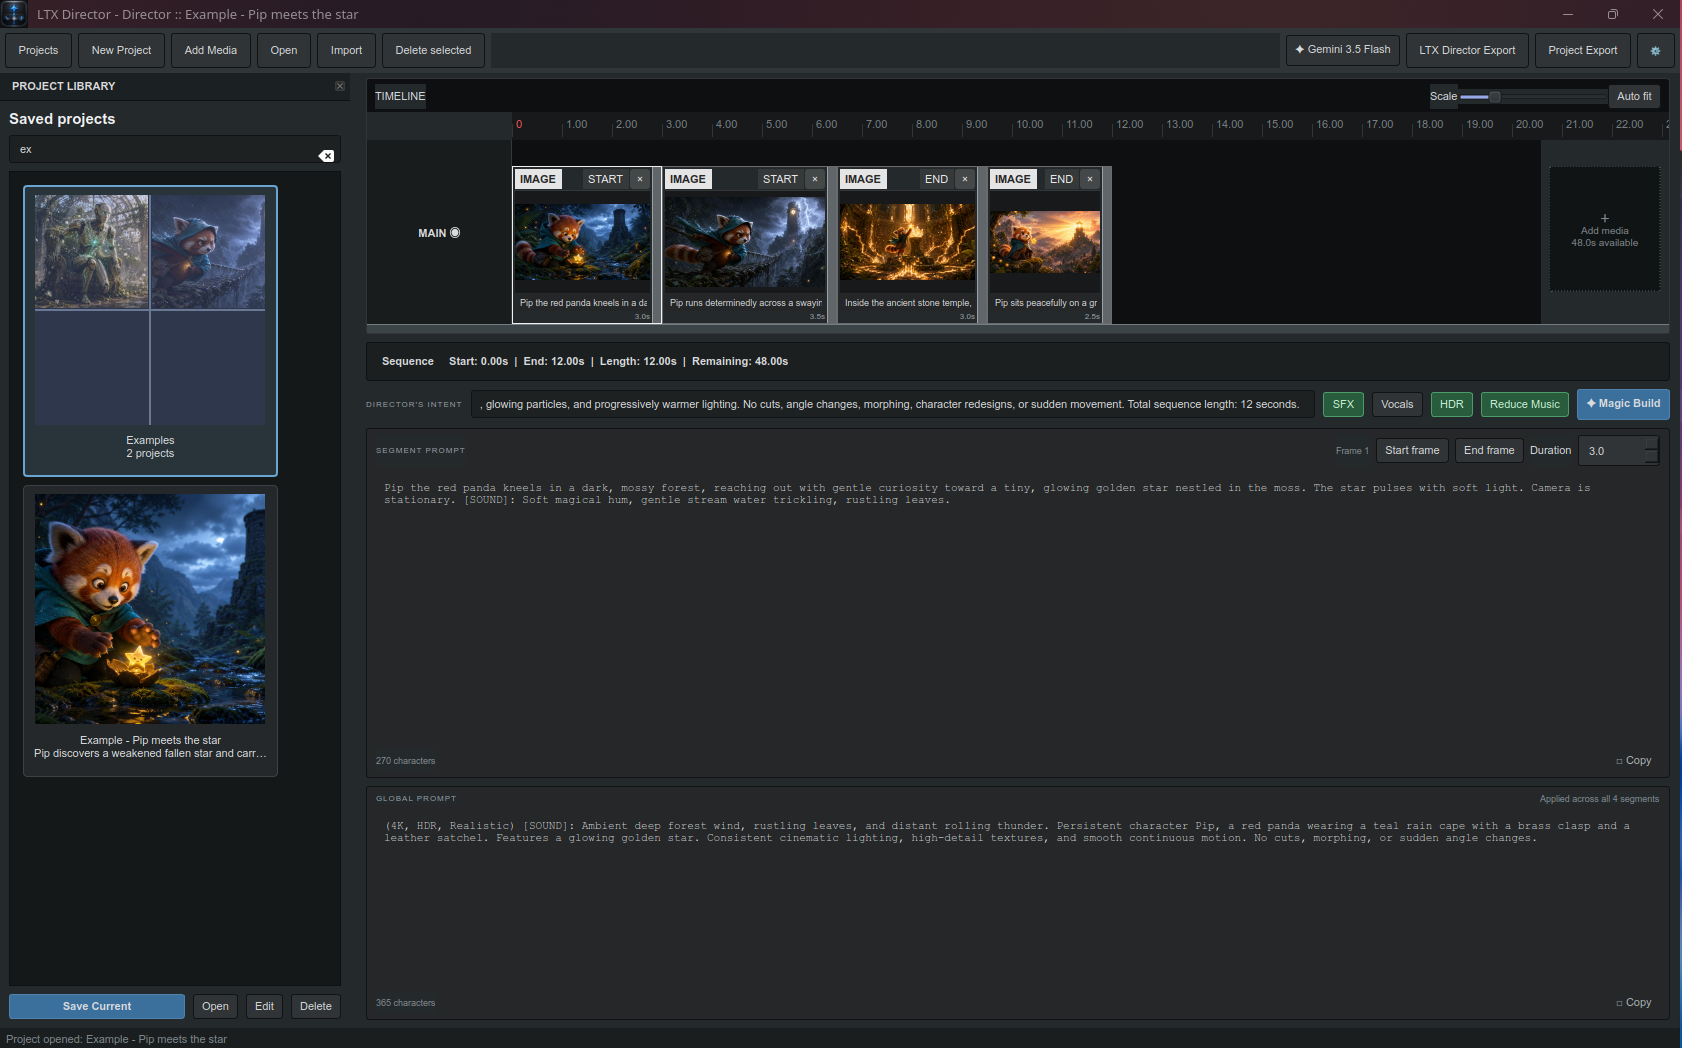
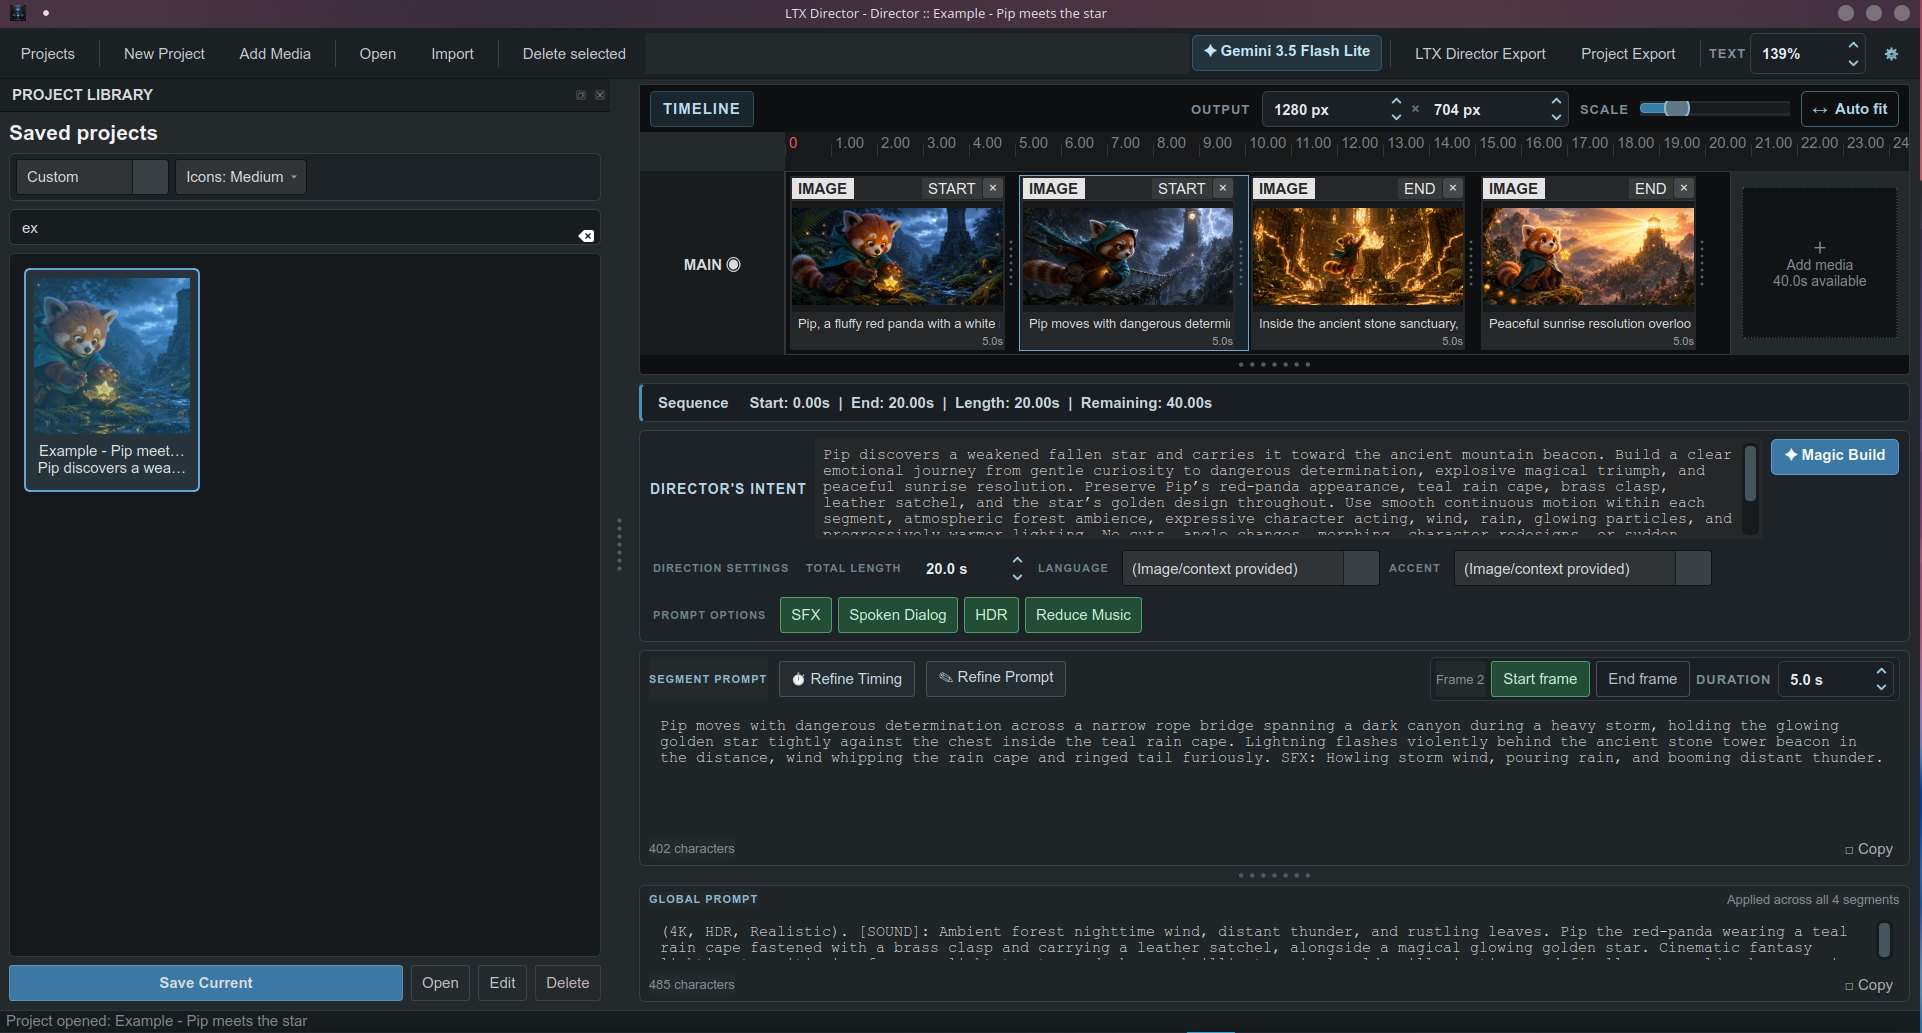
Refresh screenshots and add feature overview
Replace the README screenshots with the current v1.12 interface and add a promotional overview highlighting the project library, visual timeline, AI planning, focused refinement, and LTXDirector export workflow.

diff --git a/README.md b/README.md
@@ -2,6 +2,10 @@
 
 **LTX Director - Director** is a native companion app for the [LTXDirector custom node for ComfyUI](https://github.com/WhatDreamsCost/WhatDreamsCost-ComfyUI). Its primary purpose is to prepare image and WebM timelines outside ComfyUI, use Gemini or OpenAI to build LTX Video 2.3 prompts, and export the finished sequence directly into LTXDirector.
 
+![LTX Director - Director feature overview](docs/images/feature-overview.png)
+
+*Direct every frame: organize projects, plan a duration-scaled visual timeline, generate production-ready prompts, refine individual segments, and export the result to LTXDirector.*
+
 ![LTX Director - Director application overview](docs/images/ltx-director-director-overview.png)
 
 ## What it does
@@ -20,7 +24,7 @@ LTX Director - Director turns a folder of reference frames into a structured LTX
 
 ![Generated segment and global prompts](docs/images/generated-prompts.png)
 
-*Magic Build creates the selected segment's motion prompt and a global prompt that keeps subject identity, setting, lighting, camera, and style consistent across the sequence.*
+*Magic Build creates every segment's motion prompt and the shared global continuity prompt. Refine Timing and Refine Prompt then provide focused control over the selected segment without rebuilding the sequence.*
 
 ## Project library
 
